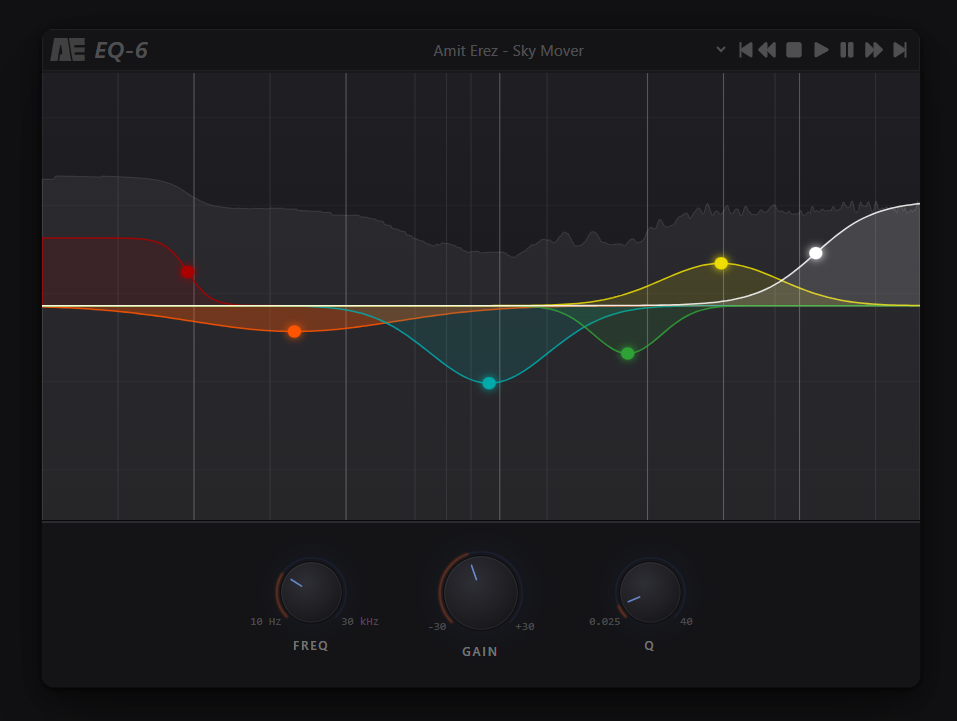
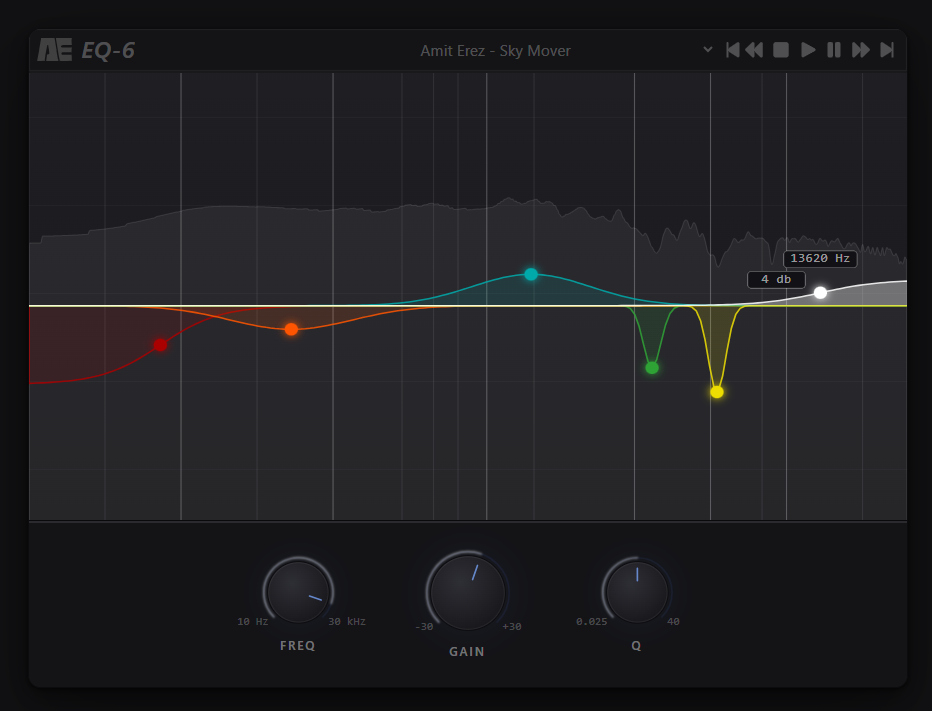
fixed dragging bug - mouseup anywhere in the window stops dragging

diff --git a/src/App.tsx b/src/App.tsx
@@ -1,4 +1,4 @@
-import { useRef, useState } from "react";
+import { useEffect, useRef, useState } from "react";
 import logo from "/AE-LOGO.svg";
 import { cn } from "./lib/utils/utils";
 import {
@@ -190,6 +190,21 @@ function App() {
     const clampedGainValue = Math.max(minGain, Math.min(maxGain, newGainValue));
     updateBands("gainValue", clampedGainValue);
   }
+
+  // preventing knob-drag state from getting stuck on mouseup outside the window
+  useEffect(() => {
+  function handleWindowMouseUp() {
+    setIsKnobDragging(false);
+    setIsHandleDragging(false);
+    setActiveKnob(null);
+  }
+
+  window.addEventListener("mouseup", handleWindowMouseUp);
+
+  return () => {
+    window.removeEventListener("mouseup", handleWindowMouseUp);
+  };
+}, []);
 
   return (
     <div
